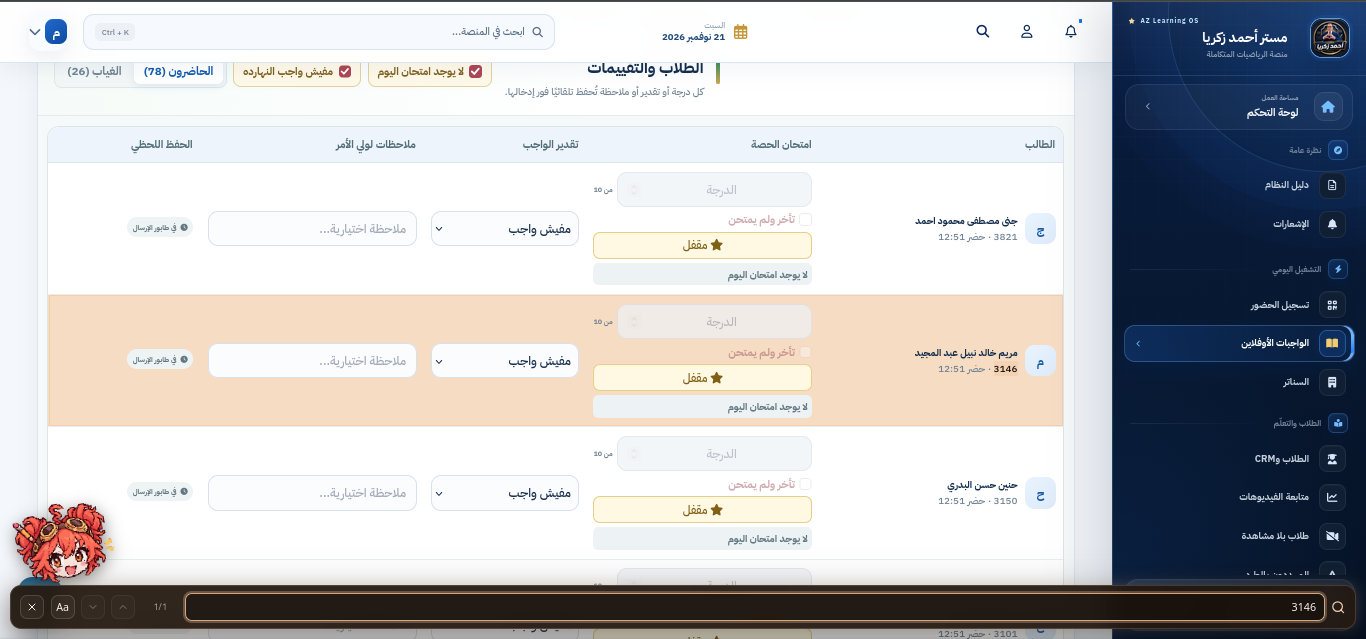
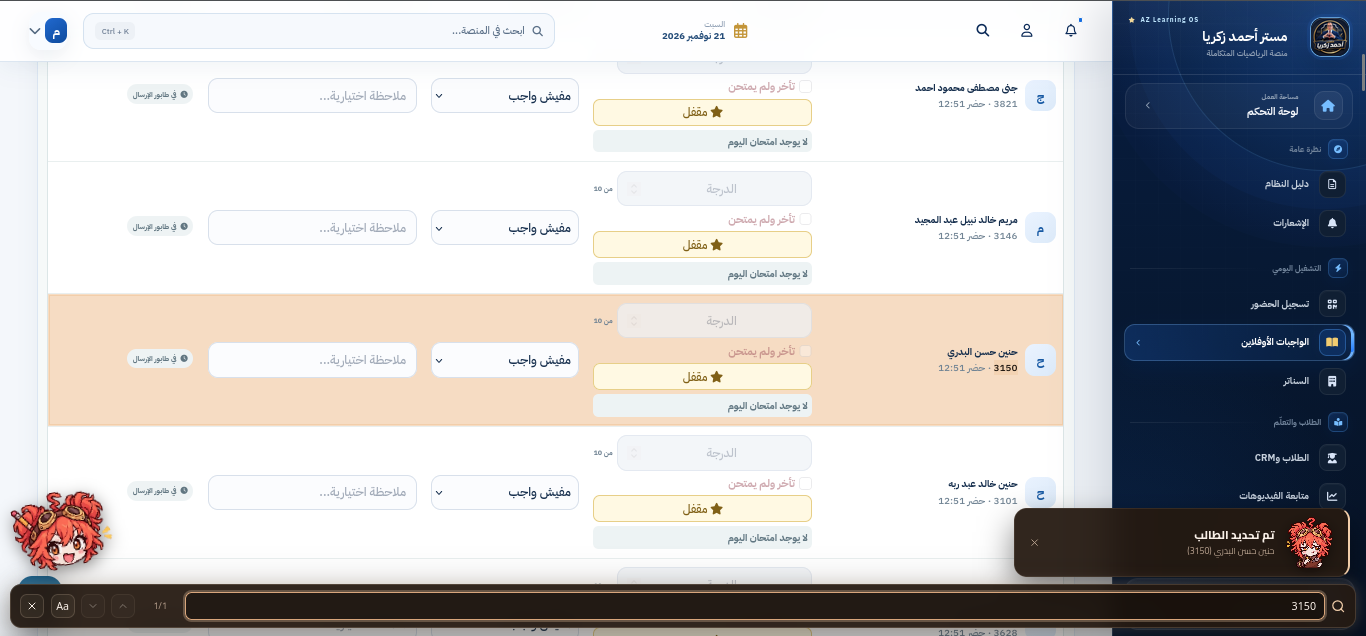
fix(eval): strip tashkeel in grade label matching
Normalize Arabic diacritics in normalizeLabel() so grade hotkeys and
option matching work when platform labels include harakat (e.g. جيد جدًا).
Bump to v0.0.24, rebuild userscripts, and sync docs/changelog.

diff --git a/dist/tamperina.user.js b/dist/tamperina.user.js
@@ -1,7 +1,7 @@
 // ==UserScript==
 // @name         Tamperina
 // @namespace    https://github.com/Omar-Khaled-57/Tamperina
-// @version      0.0.23
+// @version      0.0.24
 // @author       Omar Khaled
 // @description  Pixel mascot launcher and growing toolkit for the Ahmed Zakaria platform
 // @supportURL   https://github.com/Omar-Khaled-57/Tamperina/issues
@@ -3825,7 +3825,7 @@
 		return value.replace(/[\u0660-\u0669]/g, (char) => String(char.charCodeAt(0) - 1632)).replace(/[\u06F0-\u06F9]/g, (char) => String(char.charCodeAt(0) - 1776));
 	}
 	function normalizeLabel(value) {
-		return normalizeDigits$1(value).replace(/[\u0640\u200F\u200E]/g, "").replace(/[\u0622\u0623\u0625]/g, "ا").replace(/\u0649/g, "ي").replace(/\s+/g, " ").trim();
+		return normalizeDigits$1(value).replace(/[\u064B-\u065F\u0670]/g, "").replace(/[\u0640\u200F\u200E]/g, "").replace(/[\u0622\u0623\u0625]/g, "ا").replace(/\u0649/g, "ي").replace(/\s+/g, " ").trim();
 	}
 	function evaluationRows() {
 		return Array.from(document.querySelectorAll(GRADE_ROW_SELECTOR));

diff --git a/dist/tamperina.dev.user.js b/dist/tamperina.dev.user.js
@@ -1,7 +1,7 @@
 // ==UserScript==
 // @name         Tamperina (DEV)
 // @namespace    https://github.com/Omar-Khaled-57/Tamperina
-// @version      0.0.23
+// @version      0.0.24
 // @author       Omar Khaled
 // @description  DEV build of Tamperina — live attendance + evaluation pages
 // @match        https://mrahmedzakaria.online/attendance/scan
@@ -3826,7 +3826,7 @@
 		return value.replace(/[\u0660-\u0669]/g, (char) => String(char.charCodeAt(0) - 1632)).replace(/[\u06F0-\u06F9]/g, (char) => String(char.charCodeAt(0) - 1776));
 	}
 	function normalizeLabel(value) {
-		return normalizeDigits$1(value).replace(/[\u0640\u200F\u200E]/g, "").replace(/[\u0622\u0623\u0625]/g, "ا").replace(/\u0649/g, "ي").replace(/\s+/g, " ").trim();
+		return normalizeDigits$1(value).replace(/[\u064B-\u065F\u0670]/g, "").replace(/[\u0640\u200F\u200E]/g, "").replace(/[\u0622\u0623\u0625]/g, "ا").replace(/\u0649/g, "ي").replace(/\s+/g, " ").trim();
 	}
 	function evaluationRows() {
 		return Array.from(document.querySelectorAll(GRADE_ROW_SELECTOR));

diff --git a/src/core/evaluation.ts b/src/core/evaluation.ts
@@ -125,6 +125,7 @@ export function normalizeDigits(value: string): string {
 
 export function normalizeLabel(value: string): string {
   return normalizeDigits(value)
+    .replace(/[\u064B-\u065F\u0670]/g, '') // tashkeel/harakat — platform labels may include them
     .replace(/[\u0640\u200F\u200E]/g, '')
     .replace(/[\u0622\u0623\u0625]/g, '\u0627')
     .replace(/\u0649/g, '\u064A')

diff --git a/README.md b/README.md
@@ -6,7 +6,7 @@
 
 <div align="center">
   <img src="https://img.shields.io/github/actions/workflow/status/Omar-Khaled-57/Tamperina/ci.yml?branch=main&style=flat-square&label=CI%2FCD" alt="CI/CD" />
-  <img src="https://img.shields.io/badge/version-0.0.23-blue?style=flat-square" alt="Version 0.0.23" />
+  <img src="https://img.shields.io/badge/version-0.0.24-blue?style=flat-square" alt="Version 0.0.24" />
   <img src="https://img.shields.io/badge/Tampermonkey-userscript-4c5a70?style=flat-square" alt="Tampermonkey userscript" />
   <img src="https://img.shields.io/badge/TypeScript-strict-3178c6?style=flat-square&logo=typescript&logoColor=white" alt="TypeScript strict" />
   <img src="https://img.shields.io/badge/Vite-8-646cff?style=flat-square&logo=vite&logoColor=white" alt="Vite 8" />
@@ -17,7 +17,7 @@
 
 <br />
 
-## <img src="public/rina/update.png" width="76" align="center" /> Latest release: 0.0.23
+## <img src="public/rina/update.png" width="76" align="center" /> Latest release: 0.0.24
 
 **One mascot, one modal, four tool families.** Tamperina ships as a single self-contained userscript: a pixel launcher that lives in the corner of the Ahmed Zakaria platform, a toggles panel, and a growing set of small workflow tools that all drive the platform's own forms and requests — never a separate backend.
 

diff --git a/CHANGELOG.md b/CHANGELOG.md
@@ -20,6 +20,14 @@ This changelog was started on **2026-11-21** at version **0.0.22**. Entries befo
 
 ---
 
+## <img src="public/rina/bug-fixed.png" width="100" align="center" /> [0.0.24] — 2026-11-24
+
+### Fixed
+
+- **Evaluation hotkey "جيد جدا"**: `normalizeLabel()` now strips Arabic tashkeel/harakat (`U+064B–U+065F`, `U+0670`) before comparing grade labels. Platform option text that includes diacritics (e.g. `جيد جدًا`) now matches the plain `جيد جدا` key, so the hotkey and grade-button classification work reliably.
+
+---
+
 ## <img src="public/rina/update.png" width="100" align="center" /> [0.0.23] — 2026-11-24
 
 ### Added
@@ -99,5 +107,5 @@ This changelog was started on **2026-11-21** at version **0.0.22**. Entries befo
 ---
 
 <div align="center">
-  <sub>Release notes for v0.0.23 · see <a href="docs/README.md">docs/</a> for the full manual.</sub>
+  <sub>Release notes for v0.0.24 · see <a href="docs/README.md">docs/</a> for the full manual.</sub>
 </div>

diff --git a/docs/README.md b/docs/README.md
@@ -1,6 +1,6 @@
 # <img src="../public/rina/logo.png" width="80" align="center" /> Tamperina — Documentation
 
-Tamperina is a single-file Tampermonkey userscript that adds a pixel-mascot launcher, a settings modal, and a set of workflow tools to the Ahmed Zakaria platform. This directory describes the script **as it exists today** (version **0.0.23**).
+Tamperina is a single-file Tampermonkey userscript that adds a pixel-mascot launcher, a settings modal, and a set of workflow tools to the Ahmed Zakaria platform. This directory describes the script **as it exists today** (version **0.0.24**).
 
 <br />
 
@@ -102,5 +102,5 @@ Documentation images are referenced from source paths so GitHub can render them 
 <br />
 
 <div align="center">
-  <sub>Docs maintained for v0.0.23 — One Mascot, Four Tool Families.</sub>
+  <sub>Docs maintained for v0.0.24 — One Mascot, Four Tool Families.</sub>
 </div>
